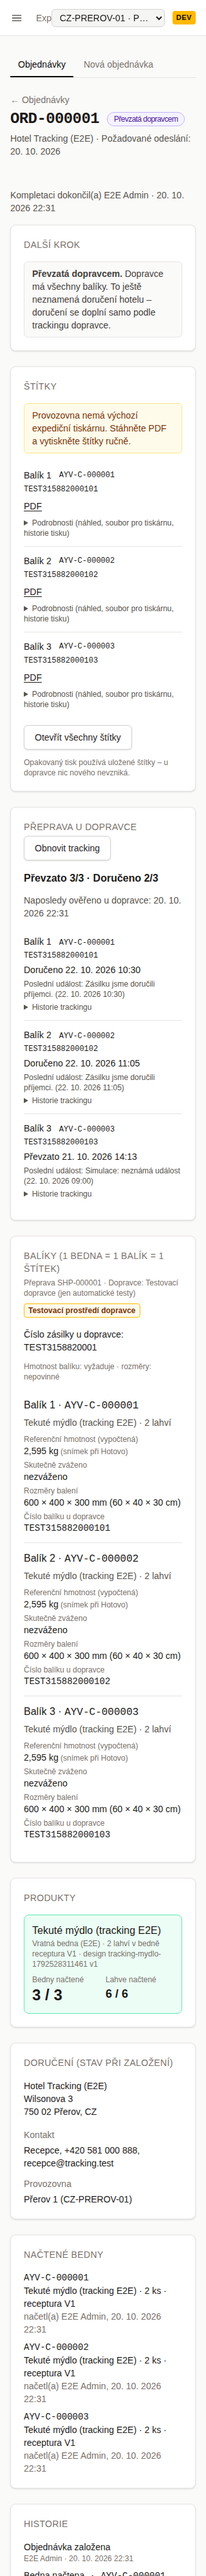
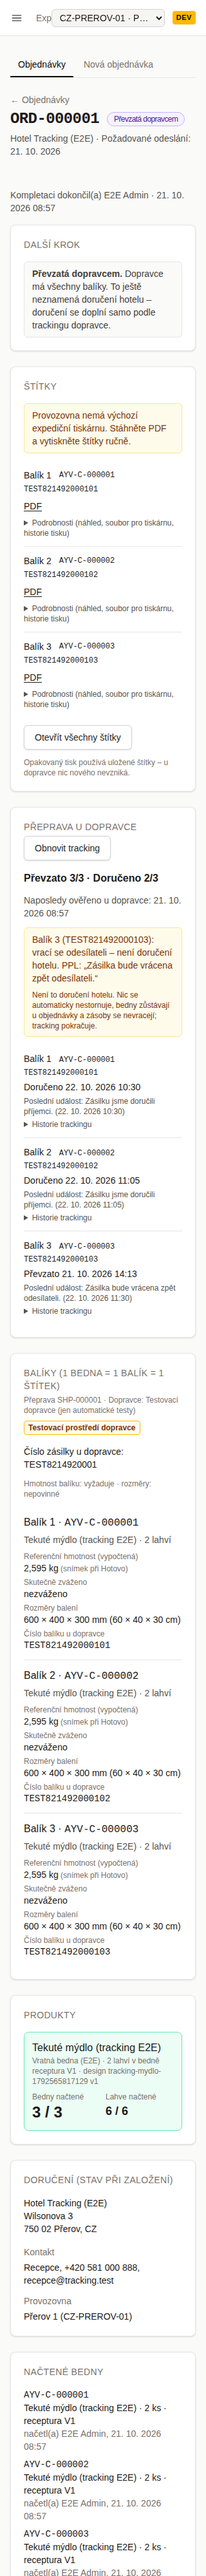
feat(tracking): parcels in transit keep the site active; transport problems shown per parcel (owner 2026-10-21)
- A parcel picked up and not yet delivered blocks deactivating the serving site
  (PARCELS_IN_TRANSIT) — also a partial pickup and parcels returning, lost, not delivered
  or at a pick-up point. API check and DB trigger (migration 20261021090200); every earlier
  blocker stays.
- A return, loss, failed attempt or pick-up point is never a delivery to the hotel: the
  warning names the parcel, its number, the problem and PPL's own text; nothing is
  cancelled, released or returned automatically, tracking goes on.
- Regression test (partial pickup, full pickup, return/loss/failed attempt with zero
  stock movements and no release, all delivered), browser check and screenshots of the
  return warning; doc 031 §5 records both decisions.

diff --git a/apps/api/test/order-tracking.e2e.test.ts b/apps/api/test/order-tracking.e2e.test.ts
@@ -3,6 +3,7 @@ import type { OrderDetail, OrderShipment } from '@ayvo/types';
 import request from 'supertest';
 import { afterAll, beforeAll, beforeEach, describe, expect, it } from 'vitest';
 import { testCarrierControl } from '../src/carriers/test-carrier.js';
+import { SiteDependencyRegistry } from '../src/sites/site-dependencies.js';
 import {
   ShipmentTrackingService,
   TRACKING_MAX_FAILURES,
@@ -33,6 +34,8 @@ const PICKUP_POINT = 343;
 const NOT_DELIVERED = 458;
 const IN_TRANSIT = 500;
 const CANCELLED_AT_PPL = 999;
+const RETURNING = 718; // „Zásilka bude vrácena zpět odesílateli.“
+const LOST = 705; // „Zásilka nebyla doručena z důvodu ztráty.“
 
 describe.skipIf(!hasDatabase)('order states and carrier tracking (doc 031)', () => {
   let t: TestApp;
@@ -450,6 +453,105 @@ describe.skipIf(!hasDatabase)('order states and carrier tracking (doc 031)', () 
     ]);
     const scan = await scanCrate(t, other.code, o.crateUrls[0]!);
     expect([scan.status, scan.body.code]).toEqual([409, 'CRATE_DELIVERED']);
+  });
+
+  /**
+   * What would block deactivating a site holding only this order: the registered checks and the
+   * database's own refusal. Test files share one database (MAIN serves other files' hotels), so the
+   * order is moved to a fresh site inside a transaction that is always rolled back.
+   */
+  async function siteBlockers(order: string) {
+    const rollback = new Error('rollback');
+    let result: { codes: string[]; refused: string | null } | null = null;
+    await t.prisma
+      .$transaction(async (tx) => {
+        const [site] = await tx.$queryRaw<{ id: string }[]>`
+          INSERT INTO "sites" ("code", "name", "country_code", "time_zone", "default_locale",
+                               "default_currency", "capabilities")
+          VALUES (${`TR-${randomUUID().slice(0, 6).toUpperCase()}`}, 'Tracking – deaktivace', 'CZ',
+                  'Europe/Prague', 'cs-CZ', 'CZK', ARRAY['WAREHOUSE']::"SiteCapability"[])
+          RETURNING "id"`;
+        const id = site!.id;
+        // Simulates the order being the site's only one (its hotel is served elsewhere).
+        await tx.$executeRaw`SET LOCAL session_replication_role = replica`;
+        await tx.$executeRaw`UPDATE "orders" SET "site_id" = ${id}::uuid WHERE "code" = ${order}`;
+        await tx.$executeRaw`SET LOCAL session_replication_role = origin`;
+        const codes = (await t.app.get(SiteDependencyRegistry).run(id, tx)).map((b) => b.code);
+        let refused: string | null = null;
+        await tx.$executeRaw`SAVEPOINT deactivate`;
+        try {
+          await tx.$executeRaw`UPDATE "sites" SET "active" = false, "deactivated_at" = now()
+                                WHERE "id" = ${id}::uuid`;
+        } catch (e) {
+          refused = (e as Error).message;
+          await tx.$executeRaw`ROLLBACK TO SAVEPOINT deactivate`;
+        }
+        result = { codes, refused };
+        throw rollback;
+      })
+      .catch((e: unknown) => {
+        if (e !== rollback) throw e;
+      });
+    return result!;
+  }
+
+  it('a parcel picked up and not delivered keeps the site active (owner 2026-10-21) — also a partial pickup, a return, a loss', async () => {
+    const o = await labelled(4);
+    const [n1, n2, n3, n4] = o.numbers as [string, string, string, string];
+    expect(await siteBlockers(o.order)).toMatchObject({ codes: ['ORDERS_NOT_CLOSED'] });
+
+    // Partial pickup: the order is still "Připravená k vyzvednutí" — both blockers.
+    testCarrierControl.track(n1, { statusId: PICKED_UP, at: at(10) });
+    await look(o.shipmentId);
+    expect((await detail(o.order)).status).toBe('READY_FOR_PICKUP');
+    let b = await siteBlockers(o.order);
+    expect(b.codes).toEqual(['ORDERS_NOT_CLOSED', 'PARCELS_IN_TRANSIT']);
+    expect(b.refused).toMatch(/stays active/);
+
+    // Every parcel picked up: "Převzatá dopravcem" — no longer "not closed", but in transit.
+    for (const n of [n2, n3, n4]) testCarrierControl.track(n, { statusId: PICKED_UP, at: at(11) });
+    await look(o.shipmentId);
+    expect((await detail(o.order)).status).toBe('HANDED_TO_CARRIER');
+    b = await siteBlockers(o.order);
+    expect(b.codes).toEqual(['PARCELS_IN_TRANSIT']);
+    expect(b.refused).toMatch(/parcels in transit stays active/);
+
+    // One delivered; the others returning, lost, not delivered: none of it is a delivery to the
+    // hotel. Each is a warning on its own parcel; nothing is cancelled, released or returned.
+    const movements = await t.prisma.inventoryMovement.count();
+    testCarrierControl.track(n1, { statusId: DELIVERED, at: at(20) });
+    testCarrierControl.track(n2, { statusId: RETURNING, at: at(21) });
+    testCarrierControl.track(n3, { statusId: LOST, at: at(22) });
+    testCarrierControl.track(n4, { statusId: NOT_DELIVERED, at: at(23) });
+    await look(o.shipmentId);
+    const d = await detail(o.order);
+    expect(d.status).toBe('HANDED_TO_CARRIER');
+    const v = await view(o.order);
+    expect(v.shipment!.status).toBe('LABELED');
+    expect(v.shipment!.tracking).toMatchObject({ pickedUp: 4, delivered: 1, stopped: null });
+    expect(v.shipment!.parcels.map((p) => p.tracking!.warning?.meaning ?? null)).toEqual([
+      null,
+      'RETURNING',
+      'LOST',
+      'NOT_DELIVERED',
+    ]);
+    expect(await cycles(o.order)).toEqual(['DELIVERED', 'DISPATCHED', 'DISPATCHED', 'DISPATCHED']);
+    expect(
+      await t.prisma.orderCrateAllocation.count({
+        where: { order: { code: o.order }, releasedAt: { not: null } },
+      }),
+    ).toBe(0);
+    expect(await t.prisma.inventoryMovement.count()).toBe(movements);
+    expect(d.history.map((h) => h.type)).not.toContain('CANCELLED');
+    b = await siteBlockers(o.order);
+    expect(b.codes).toEqual(['PARCELS_IN_TRANSIT']);
+    expect(b.refused).toMatch(/stays active/);
+
+    // The carrier finally delivers the rest: nothing blocks any more.
+    for (const n of [n2, n3, n4]) testCarrierControl.track(n, { statusId: DELIVERED, at: at(40) });
+    await look(o.shipmentId);
+    expect((await detail(o.order)).status).toBe('DELIVERED');
+    expect(await siteBlockers(o.order)).toEqual({ codes: [], refused: null });
   });
 
   it('the database refuses what tracking may not do', async () => {

diff --git a/apps/web/e2e/workflow-tracking.spec.ts b/apps/web/e2e/workflow-tracking.spec.ts
@@ -216,6 +216,14 @@ test('tracking: every parcel with the carrier, two delivered, an unknown code ke
     at: '2026-10-22T07:00:00Z',
     name: 'Simulace: neznámá událost',
   });
+  // Parcel 3 going back to the sender: a warning on that parcel, never a delivery (owner 2026-10-21).
+  await carrierReports(3, {
+    statusId: 718,
+    code: 'Return.Test',
+    meaning: 'RETURNING',
+    at: '2026-10-22T09:30:00Z',
+    name: 'Zásilka bude vrácena zpět odesílateli.',
+  });
   await page.setViewportSize({ width: 1280, height: 900 });
   await page.goto(`/dispatch/orders/${orderCode}`);
   const card = page.getByTestId('tracking-card');
@@ -224,6 +232,12 @@ test('tracking: every parcel with the carrier, two delivered, an unknown code ke
   await expect(page.getByTestId('order-status')).toHaveText('Převzatá dopravcem');
   await expect(card.getByTestId('tracking-parcel-1-state')).toContainText('Doručeno');
   await expect(card.getByTestId('tracking-parcel-3-state')).toContainText('Převzato');
+  const warning = card.getByTestId('tracking-warning-3');
+  await expect(warning).toContainText('Balík 3');
+  await expect(warning).toContainText('vrací se odesílateli – není doručení hotelu');
+  await expect(warning).toContainText('PPL: „Zásilka bude vrácena zpět odesílateli.“');
+  await expect(card.getByTestId('tracking-warnings')).not.toContainText('Balík 1');
+  await expect(card).toContainText('Nic se automaticky nestornuje');
   // The history is collapsed; it shows PPL's own code and the time it was fetched.
   const history = card.getByTestId('tracking-history-3');
   await expect(history.getByText('kód 7777')).toBeHidden();
@@ -252,6 +266,8 @@ test('tracking: the last parcel delivered — the order Doručená; checking end
   await card.getByTestId('tracking-refresh').click();
   await expect(card.getByTestId('tracking-summary')).toHaveText('Převzato 3/3 · Doručeno 3/3');
   await expect(page.getByTestId('order-status')).toHaveText('Doručená');
+  // The return reported before the delivery is no longer a current problem.
+  await expect(card.getByTestId('tracking-warnings')).toHaveCount(0);
   await expect(card.getByTestId('tracking-checked')).toContainText('ověřování skončilo');
   await expect(card.getByTestId('tracking-refresh')).toHaveCount(0);
   await noOverflow(page);

diff --git a/apps/api/src/orders/orders.service.ts b/apps/api/src/orders/orders.service.ts
@@ -18,6 +18,7 @@ import type {
   OrderSummary,
   OrderView,
   RemoveOrderCrateRequest,
+  SiteDependency,
 } from '@ayvo/types';
 import { Inject, Injectable, NotFoundException, type OnModuleInit } from '@nestjs/common';
 import { RecipesService } from '../catalog/recipes.service.js';
@@ -75,16 +76,34 @@ export class OrdersService implements OnModuleInit {
 
   /**
    * A site with orders not yet handed to the carrier stays active: they could no longer be
-   * picked, prepared or cancelled there (doc 022 §7, doc 029).
+   * picked, prepared or cancelled there (doc 022 §7, doc 029); so does one with parcels in transit.
    */
   onModuleInit(): void {
     this.siteDependencies.register(async (siteId, db) => {
       const n = await db.order.count({
         where: { siteId, status: { in: ['OPEN', 'READY_TO_DISPATCH', 'READY_FOR_PICKUP'] } },
       });
-      return n > 0
-        ? [{ code: 'ORDERS_NOT_CLOSED', detail: `${n} order(s) are not yet handed over` }]
-        : [];
+      const found: SiteDependency[] =
+        n > 0
+          ? [{ code: 'ORDERS_NOT_CLOSED', detail: `${n} order(s) are not yet handed over` }]
+          : [];
+      // Owner 2026-10-21 (doc 031 §5): a parcel picked up and not yet delivered (also a partial
+      // pickup, a parcel returning, lost or at a pick-up point) keeps the site active.
+      const [row] = await db.$queryRaw<{ transit: number }[]>`
+        SELECT count(DISTINCT o."id")::int AS "transit"
+          FROM "shipment_parcel_progress" pp
+          JOIN "shipments" s ON s."id" = pp."shipment_id"
+          JOIN "orders" o ON o."id" = s."order_id"
+         WHERE o."site_id" = ${siteId}::uuid AND s."status" <> 'CANCELLED'
+           AND pp."picked_up_source" IS NOT NULL AND pp."delivered_at" IS NULL`;
+      const transit = row?.transit ?? 0;
+      if (transit > 0) {
+        found.push({
+          code: 'PARCELS_IN_TRANSIT',
+          detail: `${transit} order(s) have parcels picked up and not yet delivered`,
+        });
+      }
+      return found;
     });
   }
 

diff --git a/apps/web/src/i18n/cs/shipments.ts b/apps/web/src/i18n/cs/shipments.ts
@@ -88,7 +88,11 @@ export const shipmentsCs = {
     deliveredAt: (at: string) => `Doručeno ${at}`,
     last: (name: string, at: string) => `Poslední událost: ${name} (${at})`,
     missing: 'Dopravce tento balík při posledním ověření nevrátil – platí poslední známý stav.',
-    warning: (n: number, name: string) => `Balík ${n}: ${name}`,
+    warning: (n: number, number: string | null, problem: string) =>
+      `Balík ${n}${number ? ` (${number})` : ''}: ${problem}.`,
+    carrierSays: (text: string) => `PPL: „${text}“`,
+    warningNote:
+      'Není to doručení hotelu. Nic se automaticky nestornuje, bedny zůstávají u objednávky a zásoby se nevracejí; tracking pokračuje.',
     history: 'Historie trackingu',
     code: (id: number | null, code: string | null) => `kód ${id ?? '–'}${code ? ` (${code})` : ''}`,
     fetched: (at: string) => `načteno ${at}`,
@@ -98,9 +102,9 @@ export const shipmentsCs = {
       IN_TRANSIT: 'v přepravě',
       DELIVERED: 'doručení',
       PICKUP_POINT: 'výdejní místo – není doručení hotelu',
-      NOT_DELIVERED: 'nedoručeno',
-      LOST: 'ztráta',
-      RETURNING: 'vrací se odesílateli',
+      NOT_DELIVERED: 'nedoručeno – neúspěšný pokus o doručení',
+      LOST: 'ztráta zásilky',
+      RETURNING: 'vrací se odesílateli – není doručení hotelu',
       CANCELLED: 'storno u dopravce',
       UNKNOWN: 'neznámý kód',
     } as Record<string, string>,

diff --git a/apps/web/src/components/dispatch/tracking-card.tsx b/apps/web/src/components/dispatch/tracking-card.tsx
@@ -48,7 +48,9 @@ export function TrackingCard({
       ? [
           {
             parcelNo: p.parcelNo,
-            name: p.tracking.warning.name ?? t.meaning[p.tracking.warning.meaning]!,
+            number: p.carrierParcelNumber,
+            problem: t.meaning[p.tracking.warning.meaning]!,
+            carrierText: p.tracking.warning.name,
           },
         ]
       : [],
@@ -95,9 +97,13 @@ export function TrackingCard({
           <Notice tone="warning">
             <ul className="flex flex-col gap-1" data-testid="tracking-warnings">
               {warnings.map((w) => (
-                <li key={w.parcelNo}>{t.warning(w.parcelNo, w.name)}</li>
+                <li key={w.parcelNo} data-testid={`tracking-warning-${w.parcelNo}`}>
+                  <span className="font-medium">{t.warning(w.parcelNo, w.number, w.problem)}</span>
+                  {w.carrierText && <> {t.carrierSays(w.carrierText)}</>}
+                </li>
               ))}
             </ul>
+            <p className="mt-2 text-xs">{t.warningNote}</p>
           </Notice>
         )}
         {error && (

diff --git a/apps/web/src/i18n/cs/identity.ts b/apps/web/src/i18n/cs/identity.ts
@@ -425,6 +425,8 @@ export const identityCs = {
       HOTELS_SERVED:
         'Provozovna obsluhuje hotely. Přeřazení hotelů zatím neexistuje, proto ji nelze deaktivovat.',
       ORDERS_NOT_CLOSED: 'Provozovna má otevřené nebo k expedici připravené objednávky.',
+      PARCELS_IN_TRANSIT:
+        'Provozovna má objednávky s balíky převzatými dopravcem, které ještě nebyly doručeny.',
       WAREHOUSES: 'Provozovna má sklady.',
       LAST_ACTIVE_SITE: 'Je to poslední aktivní provozovna.',
     } as Record<string, string>,

diff --git a/packages/types/src/sites.ts b/packages/types/src/sites.ts
@@ -116,6 +116,7 @@ export const siteDependencySchema = z.object({
     'LAST_ACTIVE_SITE',
     'HOTELS_SERVED',
     'ORDERS_NOT_CLOSED',
+    'PARCELS_IN_TRANSIT',
   ]),
   detail: z.string(),
 });

diff --git a/docs/031-order-states-and-carrier-tracking.md b/docs/031-order-states-and-carrier-tracking.md
@@ -109,24 +109,35 @@ creating one or ordering a pickup was not authorised). Questions prepared for PP
    does it mean?
 5. Can events arrive late or out of order, and can an event's time change between two answers?
 
-**Open decisions for the owner** (not decided in code):
+**Owner decisions (2026-10-21)** — formerly open:
 
-- A site may be deactivated while it holds orders "Převzatá dopravcem" (unchanged rule of doc
-  029), although tracking still writes their events. Should such orders keep the site active?
-- A parcel going back to the sender, lost, or left at a pick-up point keeps the order "Převzatá
-  dopravcem" (shown as a warning) and tracking goes on every 15 minutes until every parcel is
-  delivered or 12 looks in a row fail. Should tracking end, or the order get another handling,
-  in these cases?
+- **A parcel picked up and not yet delivered keeps the serving site active.** Every earlier
+  blocker stays (stock, warehouses, the last active site, hotels served, orders not yet handed
+  over). The new blocker `PARCELS_IN_TRANSIT` counts orders whose live shipment has a parcel with
+  a pickup (carrier, manual or implied) and no delivery — also a partial pickup (the order still
+  "Připravená k vyzvednutí", then both blockers), and an order whose parcels are returning, lost,
+  not delivered or at a pick-up point. The API check (`OrdersService`, registered with the site
+  dependencies) and the database trigger `sites_deactivation_dependencies` (migration
+  `20261021090200_site_parcels_in_transit`) say the same.
+- **A return to the sender, a loss, a failed delivery attempt or a pick-up point is not a delivery
+  to the hotel.** The order stays "Převzatá dopravcem"; the order detail shows the concrete problem
+  on the affected parcel (its number, our reading of PPL's code and PPL's own text) as a warning.
+  Nothing is cancelled, no crate is released, no stock is returned, and tracking goes on (every
+  15 minutes, until every parcel is delivered or 12 looks in a row fail). A later delivery event
+  of that parcel delivers it and the warning disappears. Physical returns are a separate, later
+  stage; no claims process exists.
 
 ## 6. Tests
 
 Simulated only (no real PPL): API tests with the test carrier (`test/order-tracking.e2e.test.ts`:
 partial pickup and delivery of three parcels, delivery without pickup, unknown codes, a missing
 parcel, outage with back-off and pause, concurrent looks, an expired lease, manual hand-over, DB
-refusals), the PPL adapter against the simulated PPL shaped as the TEST answers
+refusals, a site kept active by parcels in transit — partial pickup, return, loss, failed
+attempt — until all are delivered), the PPL adapter against the simulated PPL shaped as the TEST answers
 (`test/ppl-large-sets.test.ts`), access and site isolation (`test/shipments-access.e2e.test.ts`),
 and the browser (`apps/web/e2e/workflow-tracking.spec.ts`: events written into the e2e database as
-the carrier would report them, "Obnovit tracking", desktop, 390 and 320 px).
+the carrier would report them, "Obnovit tracking", a parcel returning to the sender shown as a
+warning on that parcel, desktop, 390 and 320 px).
 
 Screenshots (`docs/screenshots/tracking/`, from `workflow-tracking.spec.ts` with
 `AYVO_SCREENSHOT_DIR`): partial pickup (desktop), in transit with two delivered (desktop, 390,

diff --git a/CLAUDE.md b/CLAUDE.md
@@ -75,6 +75,9 @@ changing behaviour — especially 002 (principles), 003 (domain model) and the A
   order and crate events with `source` USER | CARRIER (actor NULL only for CARRIER). Only the
   carrier's documented codes change states (PPL 150/151 pickup, 450–453 delivery); handed over /
   delivered only when every parcel is; a delivery never completes a bottle's reuse cycle.
+  Owner 2026-10-21: a parcel picked up and not delivered keeps the site active
+  (`PARCELS_IN_TRANSIT`, also DB); return / loss / failed attempt / pick-up point is never a
+  delivery — a warning on that parcel, nothing cancelled, released or returned automatically.
   Dispatch and direct printing (doc 029, doc 030, owner 2026-10-18/-20; PR #36, #37, PR C for review):
   shipments, parcels, carrier requests, labels in several formats (PDF preview + ZPL for printing,
   never our own conversion), per-site carrier settings and encrypted carrier connections (ADR 0027),
